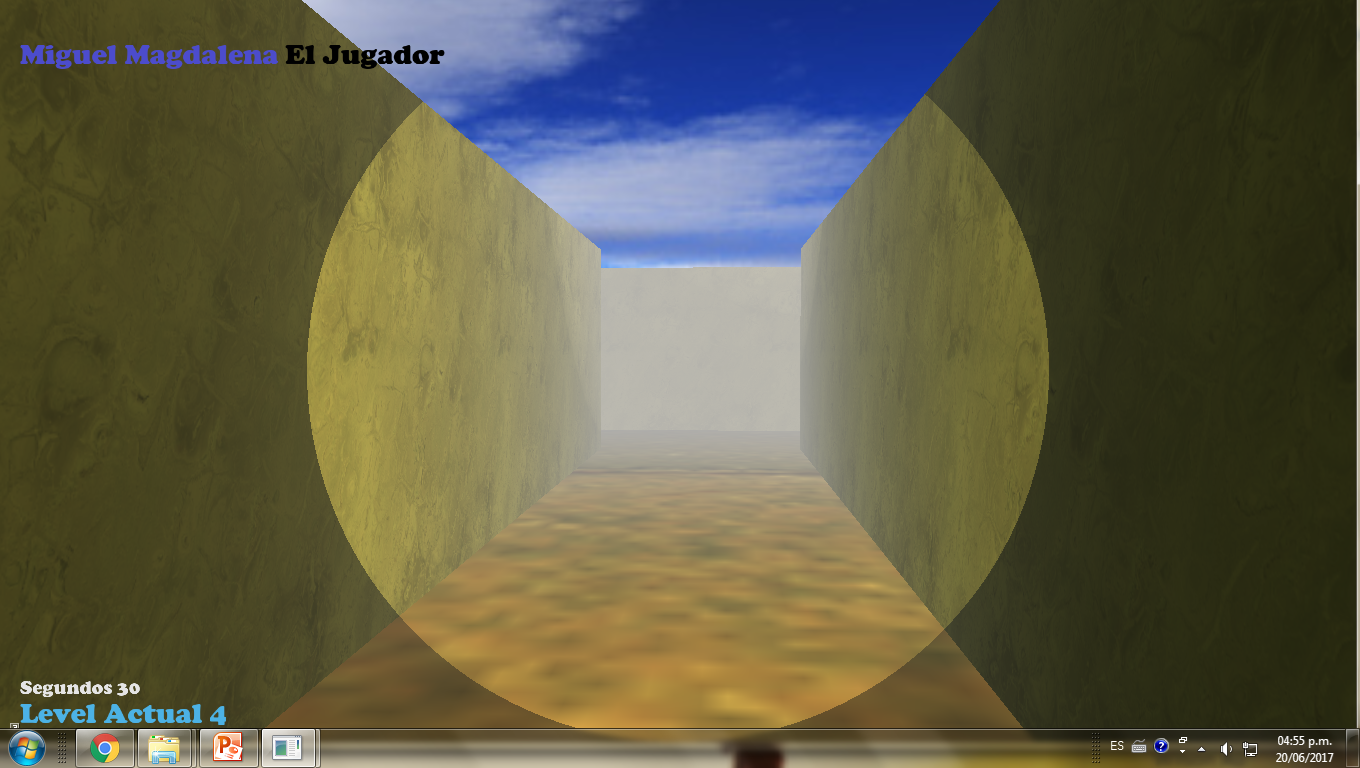
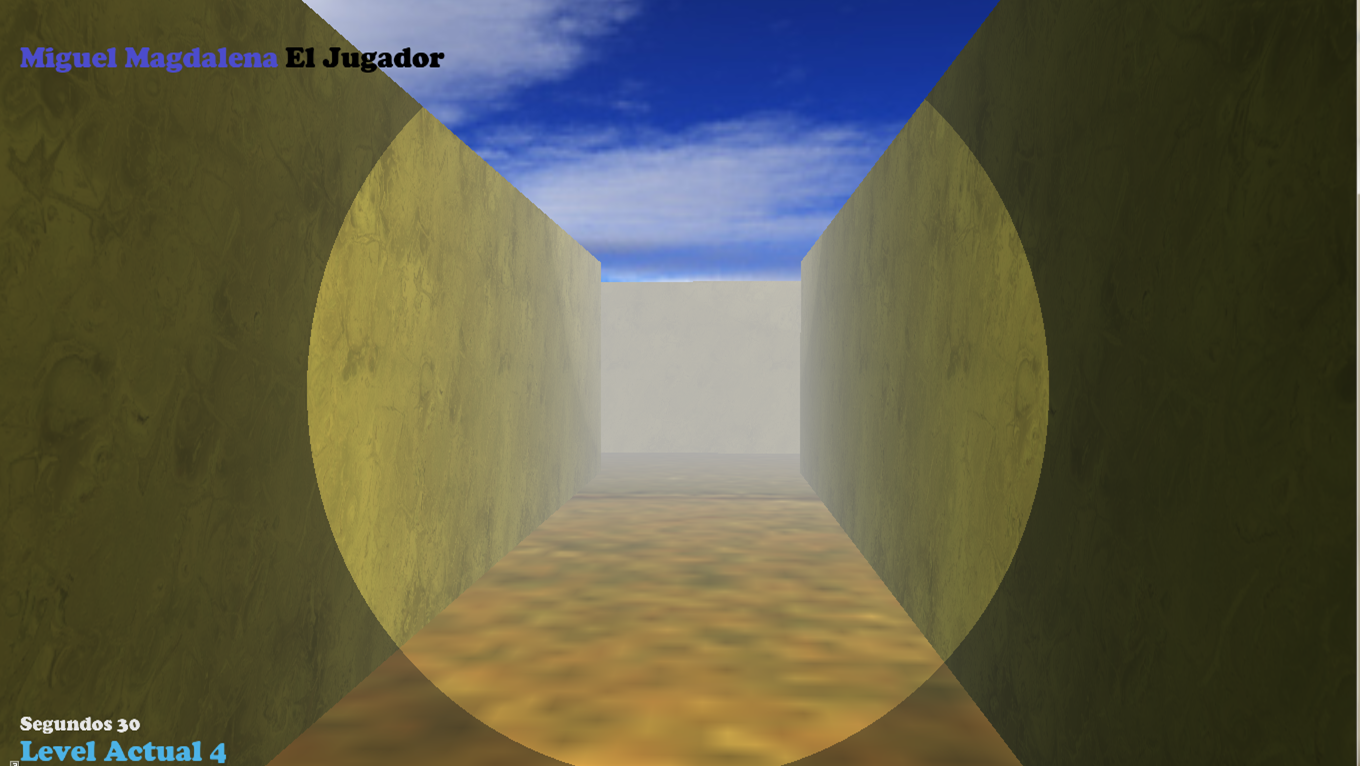
La imagen que estaba mala, y lo del video en el readme

diff --git a/README.md b/README.md
@@ -22,8 +22,6 @@ del laberinto, y actualmente consta de 5 niveles.
 ## Video
 [El Laberinto de Cajas](https://www.youtube.com/watch?v=YD8Xyu3gzWk&feature=youtu.be)
 
-[![IMAGE ALT TEXT](http://img.youtube.com/vi/YD8Xyu3gzWk&feature=youtu.be/0.jpg)](http://www.youtube.com/watch?v=YD8Xyu3gzWk&feature=youtu.be "El Laberinto de Cajas")
-
 ## Bibliotecas usadas
 * GLFW
 * AntTweakBar
